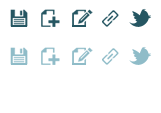
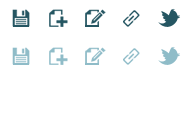
Change image

diff --git a/static/application.css b/static/application.css
@@ -114,22 +114,22 @@ textarea {
 	font-weight: normal;
 }
 
-#box2 .function.save { background-position: 0px top; }
-#box2 .function.enabled.save { background-position: 0px center; }
-#box2 .function.enabled.save:hover { background-position: 0px bottom; }
+#box2 .function.save { background-position: -5px top; }
+#box2 .function.enabled.save { background-position: -5px center; }
+#box2 .function.enabled.save:hover { background-position: -5px bottom; }
 
-#box2 .function.new { background-position: -32px top; }
-#box2 .function.enabled.new { background-position: -32px center; }
-#box2 .function.enabled.new:hover { background-position: -32px bottom; }
+#box2 .function.new { background-position: -42px top; }
+#box2 .function.enabled.new { background-position: -42px center; }
+#box2 .function.enabled.new:hover { background-position: -42px bottom; }
 
-#box2 .function.duplicate { background-position: -64px top; }
-#box2 .function.enabled.duplicate { background-position: -64px center; }
-#box2 .function.enabled.duplicate:hover { background-position: -64px bottom; }
+#box2 .function.duplicate { background-position: -79px top; }
+#box2 .function.enabled.duplicate { background-position: -79px center; }
+#box2 .function.enabled.duplicate:hover { background-position: -79px bottom; }
 
-#box2 .function.link { background-position: -96px top; }
-#box2 .function.enabled.link { background-position: -96px center; }
-#box2 .function.enabled.link:hover { background-position: -96px bottom; }
+#box2 .function.link { background-position: -116px top; }
+#box2 .function.enabled.link { background-position: -116px center; }
+#box2 .function.enabled.link:hover { background-position: -116px bottom; }
 
-#box2 .function.twitter { background-position: -128px top; }
-#box2 .function.enabled.twitter { background-position: -128px center; }
-#box2 .function.enabled.twitter:hover { background-position: -128px bottom; }
+#box2 .function.twitter { background-position: -153px top; }
+#box2 .function.enabled.twitter { background-position: -153px center; }
+#box2 .function.enabled.twitter:hover { background-position: -153px bottom; }
